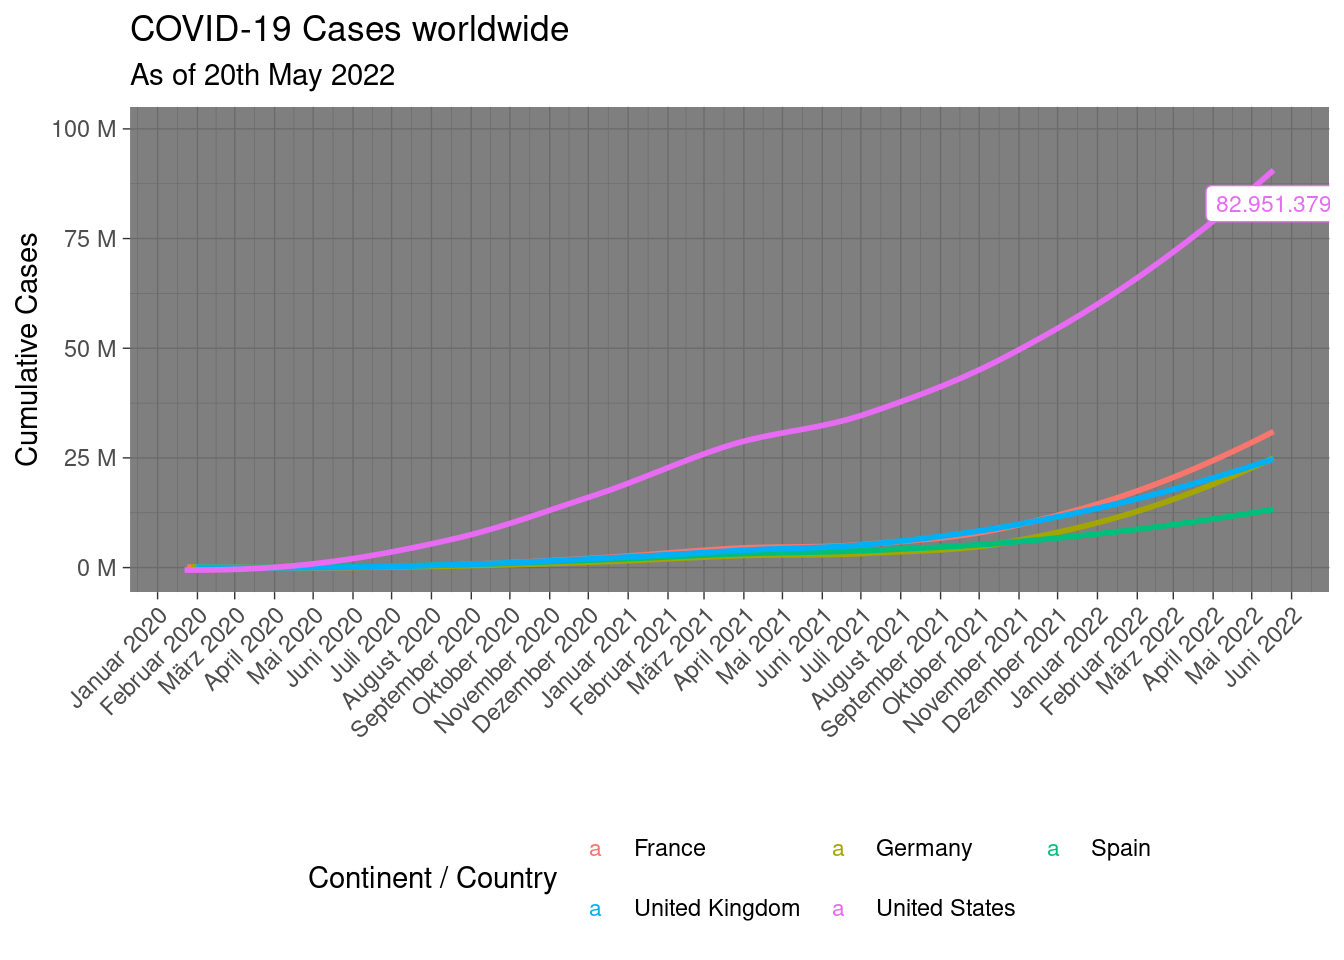
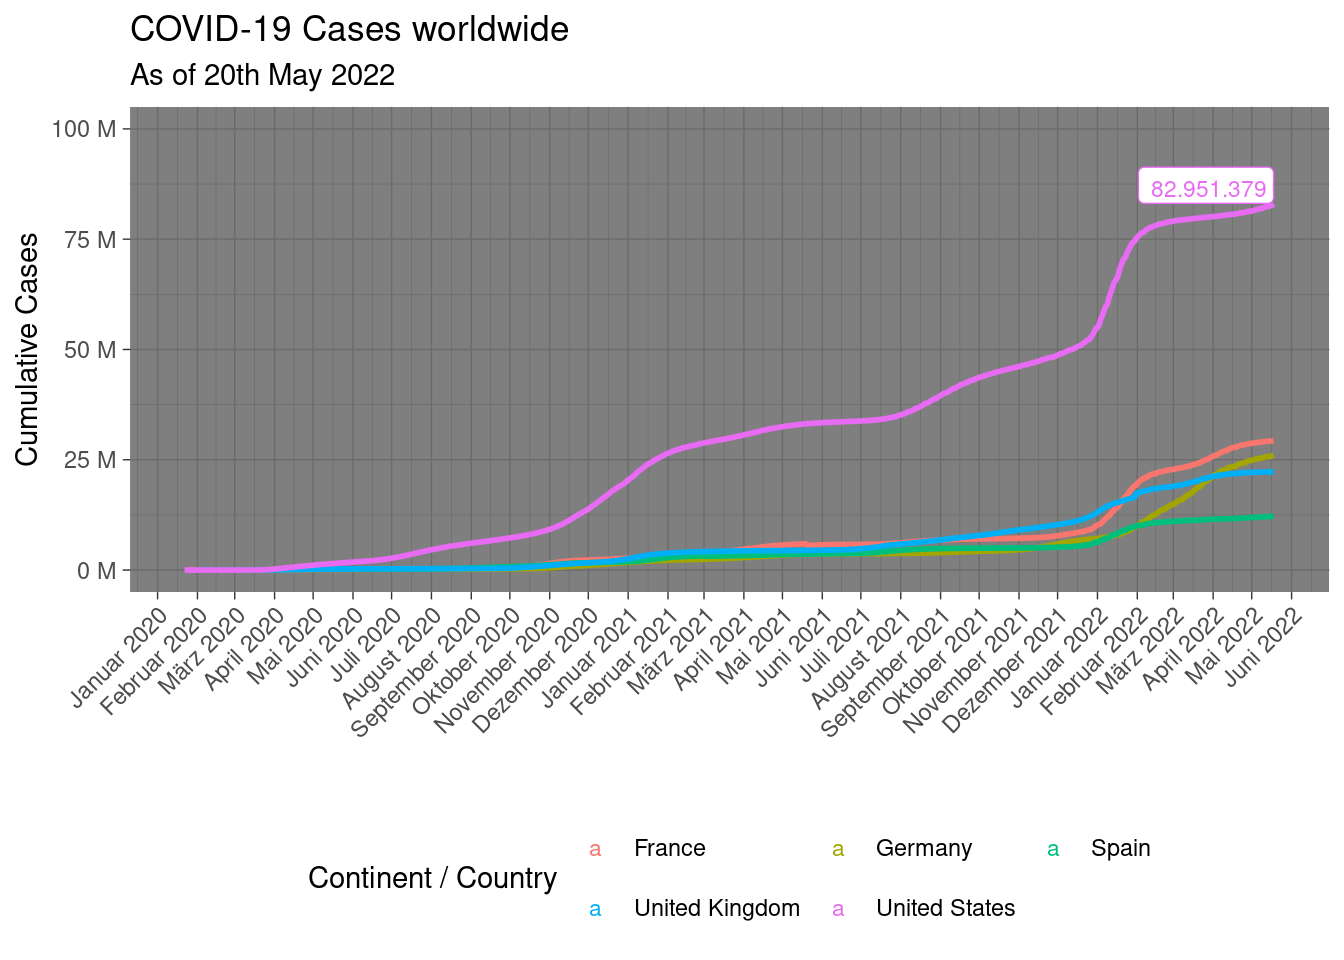
updated website of challenge 4

Changed region(s): [[0.1562, 0.4375, 0.9688, 0.5938], [0.4688, 0.1562, 1.0, 0.5], [0.0312, 0.4688, 0.0938, 0.5]]

diff --git a/e635495d9477b0ff92d7a78779adc6b7213f5377/04_data_visualization.html b/e635495d9477b0ff92d7a78779adc6b7213f5377/04_data_visualization.html
@@ -417,10 +417,10 @@ labels &lt;- refined_data %&gt;%
 <h2><span class="header-section-number">1.2</span> Results</h2>
 <pre class="r"><code>refined_data %&gt;% 
   ggplot(aes(date, total_cases, color =location)) + 
-  geom_smooth(method = &quot;loess&quot;, se=FALSE) + 
+  geom_line(size=1) + 
   geom_label(label = labels$total_cases_text,
-             vjust = 0.5,
-             hjust = 0.5,
+             vjust =-0.02,
+             hjust = 1,
              size=3, 
              data = labels) +
   expand_limits(y=10e7) +
@@ -470,19 +470,14 @@ combined_data &lt;- merge(x= world, y=mortality_rate, by.x = &quot;region&quot;,
 </div>
 <div id="results-1" class="section level2" number="2.2">
 <h2><span class="header-section-number">2.2</span> Results</h2>
-<p>Hint: Add + theme(axis.text.x = element_text(angle = 45, hjust = 1))
-to your plotting code to rotate your x-axis labels. Probably you have to
-resize the viewer pane to show the entire plot. For your website, try
-different values for fig.width and fig.height in your markdown
-document:</p>
 <pre class="r"><code>combined_data %&gt;% 
-ggplot() + 
+  ggplot() + 
   geom_map(aes(x = long, y= lat, map_id=region, fill=most_recent_mortality_rate), map=world) + 
   scale_fill_continuous(labels=scales::percent_format(accuaracy= 0.001), low=&quot;lightgreen&quot;, high=&quot;darkgreen&quot;)+
   labs (
     title = &quot;Confirmed COVID-19 deaths relative to the size of the population&quot;,
   )+
-  theme_bw() + 
+  theme(axis.line = element_blank(), axis.text = element_blank(), axis.ticks = element_blank(), axis.title = element_blank())+
   theme (title = element_text( &quot;Mortality Rate&quot;))</code></pre>
 <p><img src="04_data_visualization_files/figure-html/unnamed-chunk-6-1.png" width="672" /></p>
 </div>
